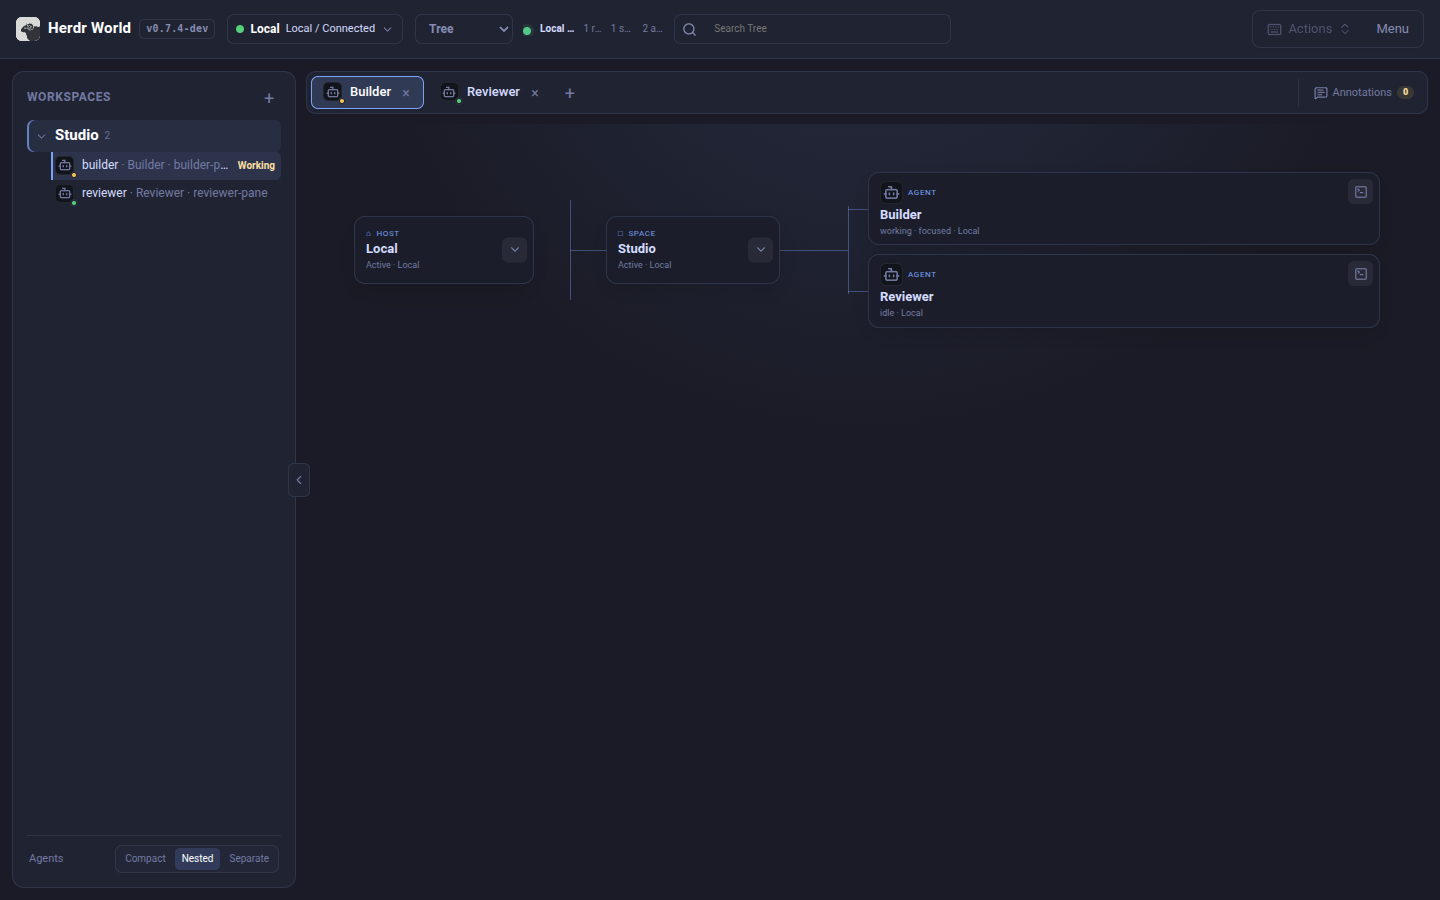
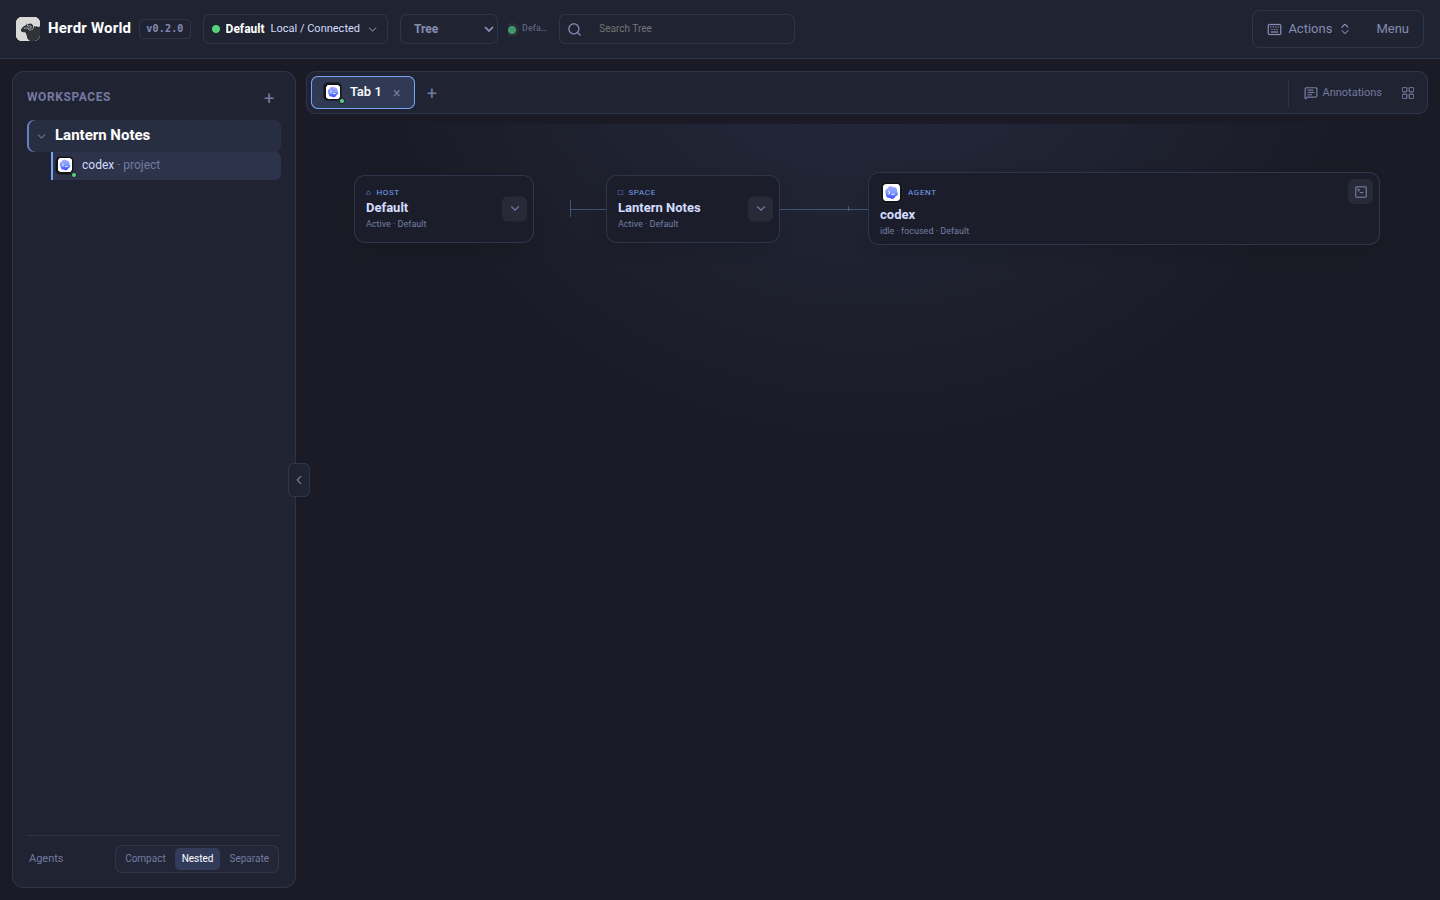
Refresh Herdr World site screenshots for 0.2.0

diff --git a/site/index.html b/site/index.html
@@ -382,7 +382,7 @@
               <button
                 type="button"
                 role="tab"
-                id="tab-changes"
+                id="tab-office"
                 aria-controls="showcase-panel"
                 aria-selected="true"
                 tabindex="0"
@@ -398,7 +398,7 @@
               <button
                 type="button"
                 role="tab"
-                id="tab-files"
+                id="tab-tree"
                 aria-controls="showcase-panel"
                 aria-selected="false"
                 tabindex="-1"
@@ -414,7 +414,7 @@
               <button
                 type="button"
                 role="tab"
-                id="tab-annotations"
+                id="tab-graph"
                 aria-controls="showcase-panel"
                 aria-selected="false"
                 tabindex="-1"
@@ -430,7 +430,7 @@
               <button
                 type="button"
                 role="tab"
-                id="tab-resources"
+                id="tab-files"
                 aria-controls="showcase-panel"
                 aria-selected="false"
                 tabindex="-1"
@@ -446,6 +446,22 @@
               <button
                 type="button"
                 role="tab"
+                id="tab-changes"
+                aria-controls="showcase-panel"
+                aria-selected="false"
+                tabindex="-1"
+                data-showcase-tab
+                data-image="./assets/herdr-world-desktop-changes.png"
+                data-alt="Herdr World Inspector showing changed files and a code diff"
+                data-label="Changes"
+                data-title="Review the agent's changes in context."
+                data-copy="See changed files and inspect a diff beside the selected agent's workspace."
+              >
+                <span>05</span> Changes
+              </button>
+              <button
+                type="button"
+                role="tab"
                 id="tab-history"
                 aria-controls="showcase-panel"
                 aria-selected="false"
@@ -457,7 +473,7 @@
                 data-title="Review what the agent actually did."
                 data-copy="Read the selected agent's session record beside its Office context, then return to the same live terminal."
               >
-                <span>05</span> History
+                <span>06</span> History
               </button>
             </div>
 
@@ -465,7 +481,7 @@
               class="showcase-panel"
               id="showcase-panel"
               role="tabpanel"
-              aria-labelledby="tab-changes"
+              aria-labelledby="tab-office"
               tabindex="0"
               data-showcase-panel
             >

diff --git a/scripts/pages-content.test.ts b/scripts/pages-content.test.ts
@@ -187,7 +187,7 @@ describe("Pages references", () => {
     );
     const screenshotPattern = /herdr-world-(?:desktop|mobile)-[a-z-]+\.png/g;
     const screenshots = [...new Set(readme.match(screenshotPattern))].sort();
-    expect(screenshots).toHaveLength(9);
+    expect(screenshots).toHaveLength(10);
     expect([...new Set(build.match(screenshotPattern))].sort()).toEqual(
       screenshots,
     );

diff --git a/scripts/build-pages.ts b/scripts/build-pages.ts
@@ -27,6 +27,10 @@ const assets = [
     "herdr-world-desktop-files.png",
   ],
   [
+    "docs/images/herdr-world-desktop-changes.png",
+    "herdr-world-desktop-changes.png",
+  ],
+  [
     "docs/images/herdr-world-desktop-history.png",
     "herdr-world-desktop-history.png",
   ],

diff --git a/README.md b/README.md
@@ -46,22 +46,26 @@ whole view; World keeps other managed connections observed in the background.
 </table>
 
 The same Inspector can move with an agent while preserving its exact terminal
-and repository context. Files and agent history are first-class views, not a
-handoff to a separate application.
+and repository context. Files, changes, and agent history stay alongside the
+agent's workspace.
 
 <table width="100%">
   <thead>
     <tr>
-      <th width="50%" align="center">Files</th>
-      <th width="50%" align="center">Agent history</th>
+      <th width="33.33%" align="center">Files</th>
+      <th width="33.33%" align="center">Changes</th>
+      <th width="33.33%" align="center">Agent history</th>
     </tr>
   </thead>
   <tbody>
     <tr>
-      <td width="50%" align="center" valign="top">
+      <td width="33.33%" align="center" valign="top">
         <a href="./docs/images/herdr-world-desktop-files.png"><img src="./docs/images/herdr-world-desktop-files.png" alt="Office Inspector browsing files for the selected agent" width="100%" /></a>
       </td>
-      <td width="50%" align="center" valign="top">
+      <td width="33.33%" align="center" valign="top">
+        <a href="./docs/images/herdr-world-desktop-changes.png"><img src="./docs/images/herdr-world-desktop-changes.png" alt="Office Inspector reviewing changed files and a code diff" width="100%" /></a>
+      </td>
+      <td width="33.33%" align="center" valign="top">
         <a href="./docs/images/herdr-world-desktop-history.png"><img src="./docs/images/herdr-world-desktop-history.png" alt="Office Inspector showing the selected agent's session history" width="100%" /></a>
       </td>
     </tr>

diff --git a/docs/SCREENSHOTS.md b/docs/SCREENSHOTS.md
@@ -37,6 +37,7 @@ PNG originals without adding fictional UI or agent conversations.
 | Desktop Graph | `herdr-world-desktop-graph.png` | Readable relationships, fitted to viewport |
 | Desktop Spaces | `herdr-world-desktop-spaces.png` | Focused workspace and live terminal |
 | Desktop Files | `herdr-world-desktop-files.png` | Same agent's file resource |
+| Desktop Changes | `herdr-world-desktop-changes.png` | Same agent's changed files and readable diff |
 | Desktop History | `herdr-world-desktop-history.png` | Same agent's real session history |
 | Mobile Office | `herdr-world-mobile-office.png` | Office and usable touch controls |
 | Mobile Tree | `herdr-world-mobile-tree.png` | Hierarchy at phone width |

diff --git a/CHANGELOG.md b/CHANGELOG.md
@@ -7,6 +7,11 @@ are optional because the merged PR history records their source.
 
 ## [Unreleased]
 
+### Changed
+
+- Refreshed the website and README screenshots with the 0.2.0 interface, including
+  readable Files, Changes, and agent History examples.
+
 ## [0.2.0] - 2026-10-02
 
 ### Highlights since 0.1.1
